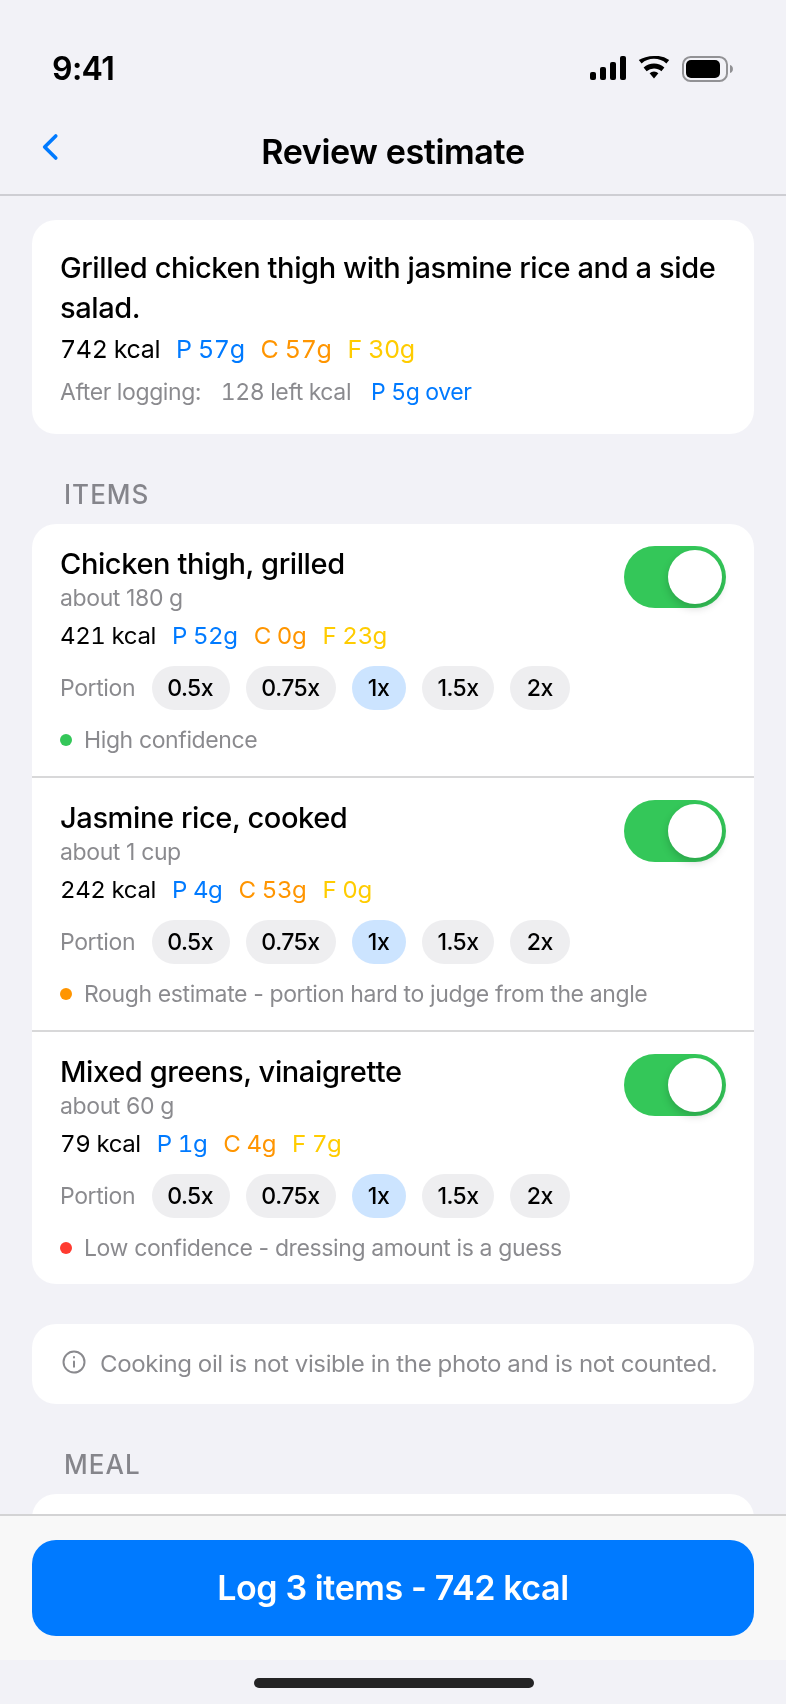
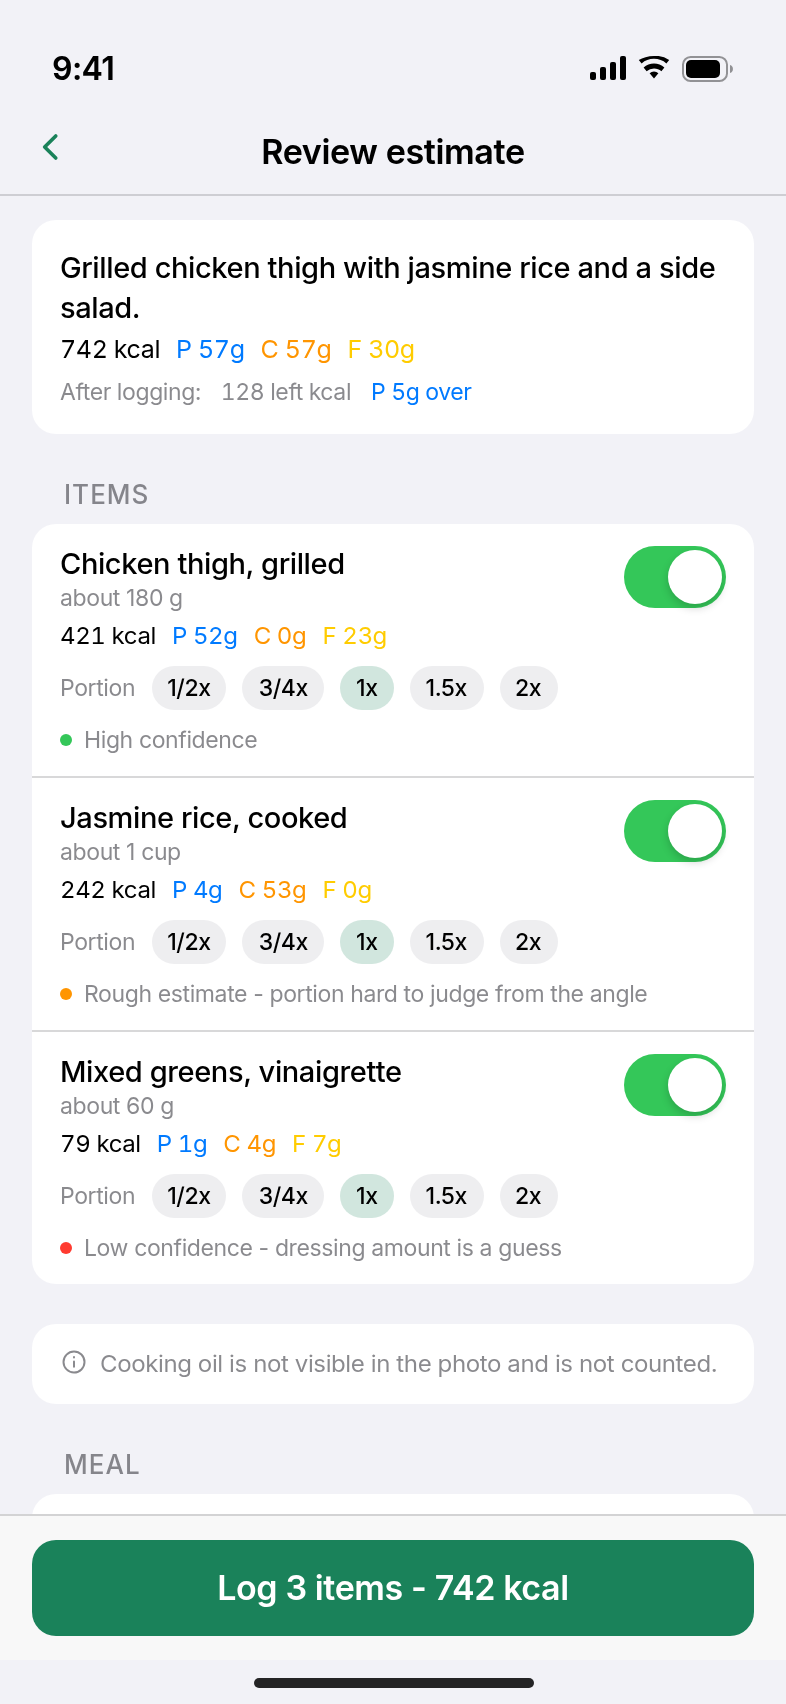
Add Planit's trip list, and correct both apps against their sources
Planit only showed a single generated day, which skipped the object the
app is actually organised around. Add the My Trips list alongside it, so
the pair reads list-then-detail and the day shown belongs to the trip at
the top of the list.

The row was also wrong in ways the earlier screen hid: destinations join
with a literal " -> ", there is a third caption line pairing total days
with the budget, and the leading toolbar item is a gearshape. One row is
left ungenerated so the pencil badge and the optional budget both show.

Along the way, three fidelity fixes traced back to the app sources:
FitAI's accent is green rather than iOS blue, its portion multipliers are
vulgar fractions rather than decimals, and Planit's is teal. Costs run
through .formatted(.currency(code:)), which carries cents, so the day
view now reads EUR 22.00 rather than EUR 22.

airplane.departure needed its runway drawn as a rectangle -- the glyph is
filled, and a bare horizontal line encloses no area, so the stroke-shaped
version rendered nothing.

No project ships a lone screen now, so the centring test drives that
branch directly rather than loading a page that no longer exists.

diff --git a/tests/shots.test.ts b/tests/shots.test.ts
@@ -17,7 +17,7 @@ import { launchBrowser, loadBuilt, openPage } from "./helpers";
 /** Every project page that declares shots, and how many it declares. */
 const PAGES = [
   { route: "/work/fitai", count: 2 },
-  { route: "/work/planit", count: 1 },
+  { route: "/work/planit", count: 2 },
   { route: "/work/vehicle-tracker", count: 2 },
 ] as const;
 
@@ -171,12 +171,23 @@ describe("app screens: layout", () => {
     await wide.close();
   });
 
+  /*
+   * Every project currently ships a pair, so the lone-screen layout has no page
+   * of its own to load. The branch is still live — the schema allows one shot —
+   * so this reproduces what AppShots emits for a single screen (one item, and
+   * the grid left at one column) and checks it centres instead of hugging the
+   * left column the way a stray sm:grid-cols-2 would leave it.
+   */
   it("centres a lone screen rather than leaving it in the left column", async () => {
     const page = await openPage(browser, "/work/planit", {
       width: 1280,
       height: 900,
     });
     const offset = await page.evaluate(() => {
+      const list = document.querySelector("[data-shots] ul")!;
+      list.className = "mx-auto grid max-w-[34rem] grid-cols-1 gap-8";
+      while (list.children.length > 1) list.lastElementChild!.remove();
+
       const img = document
         .querySelector("[data-shots] img")!
         .getBoundingClientRect();

diff --git a/src/content/work/planit.md b/src/content/work/planit.md
@@ -7,6 +7,9 @@ platform: iOS · SwiftUI
 icon: planit.png
 constraint: Constrained decoding or nothing. The itinerary comes back as schema-valid JSON, so there is no prose parsing anywhere in the app.
 shots:
+  - src: planit-trips.png
+    alt: "The Planit trip list, showing five saved trips with their destinations joined by arrows, total days and budgets; the last has no itinerary generated yet."
+    caption: "Trips are the top-level object: several legs, a total length, and a budget the itinerary has to come in under."
   - src: planit-day.png
     alt: "One day of an Amsterdam itinerary, listing four activities against a time column with category icons, cost estimates, travel modes and locations."
     caption: "A single day as the model returned it — timed, costed, and ordered so the travel between stops makes sense."
